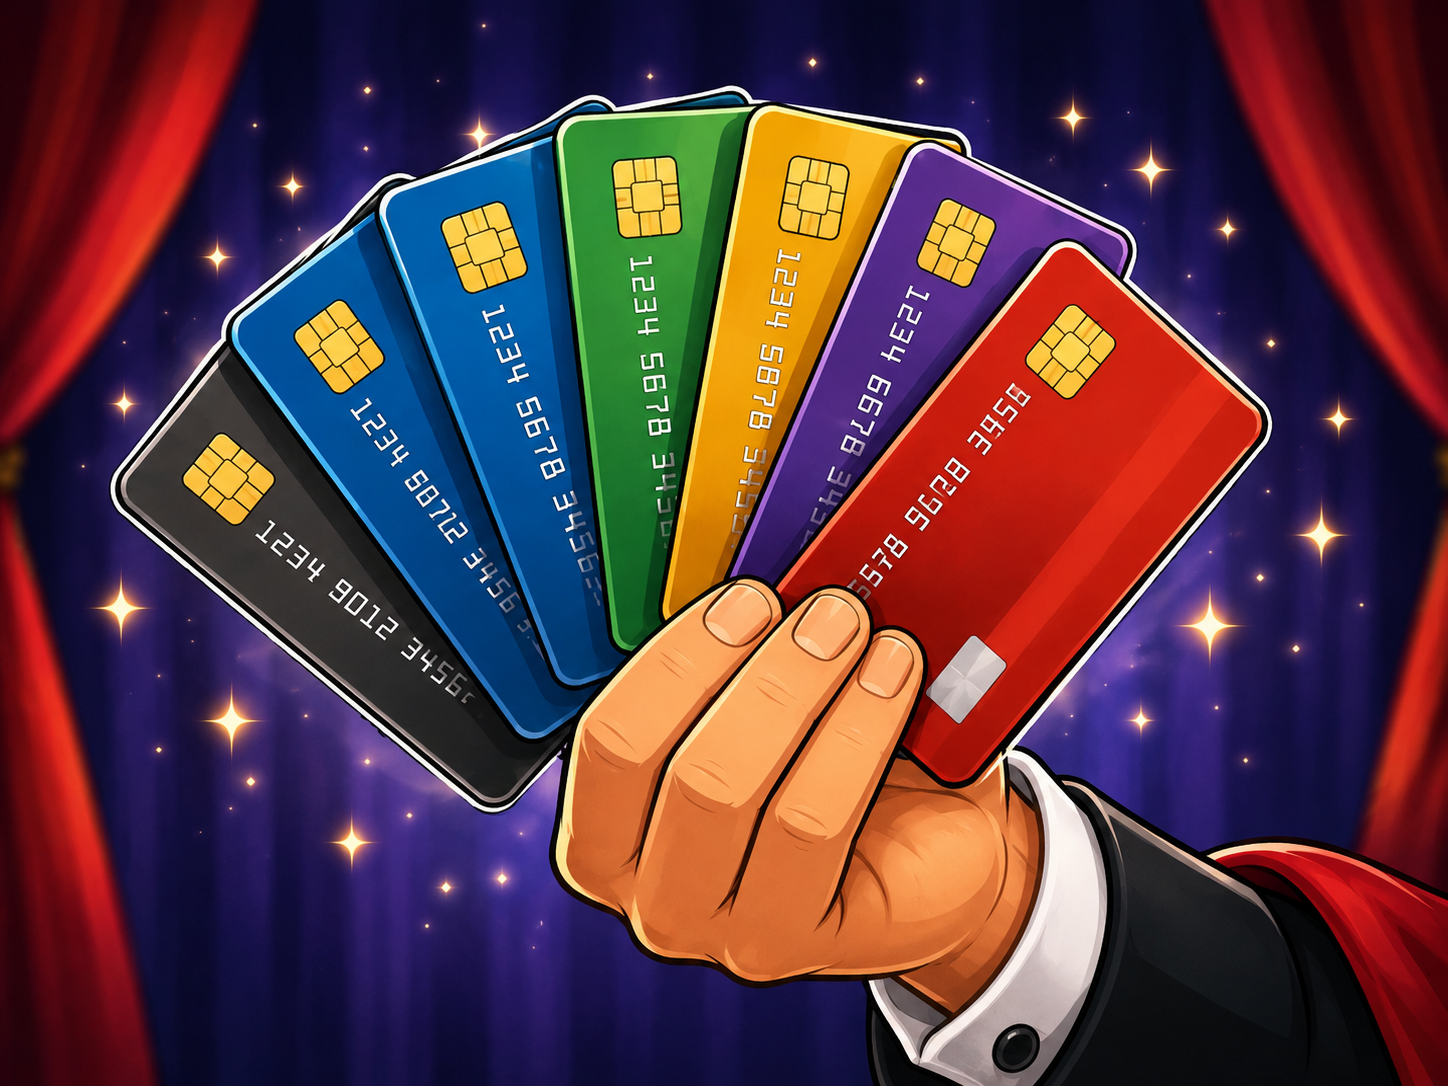
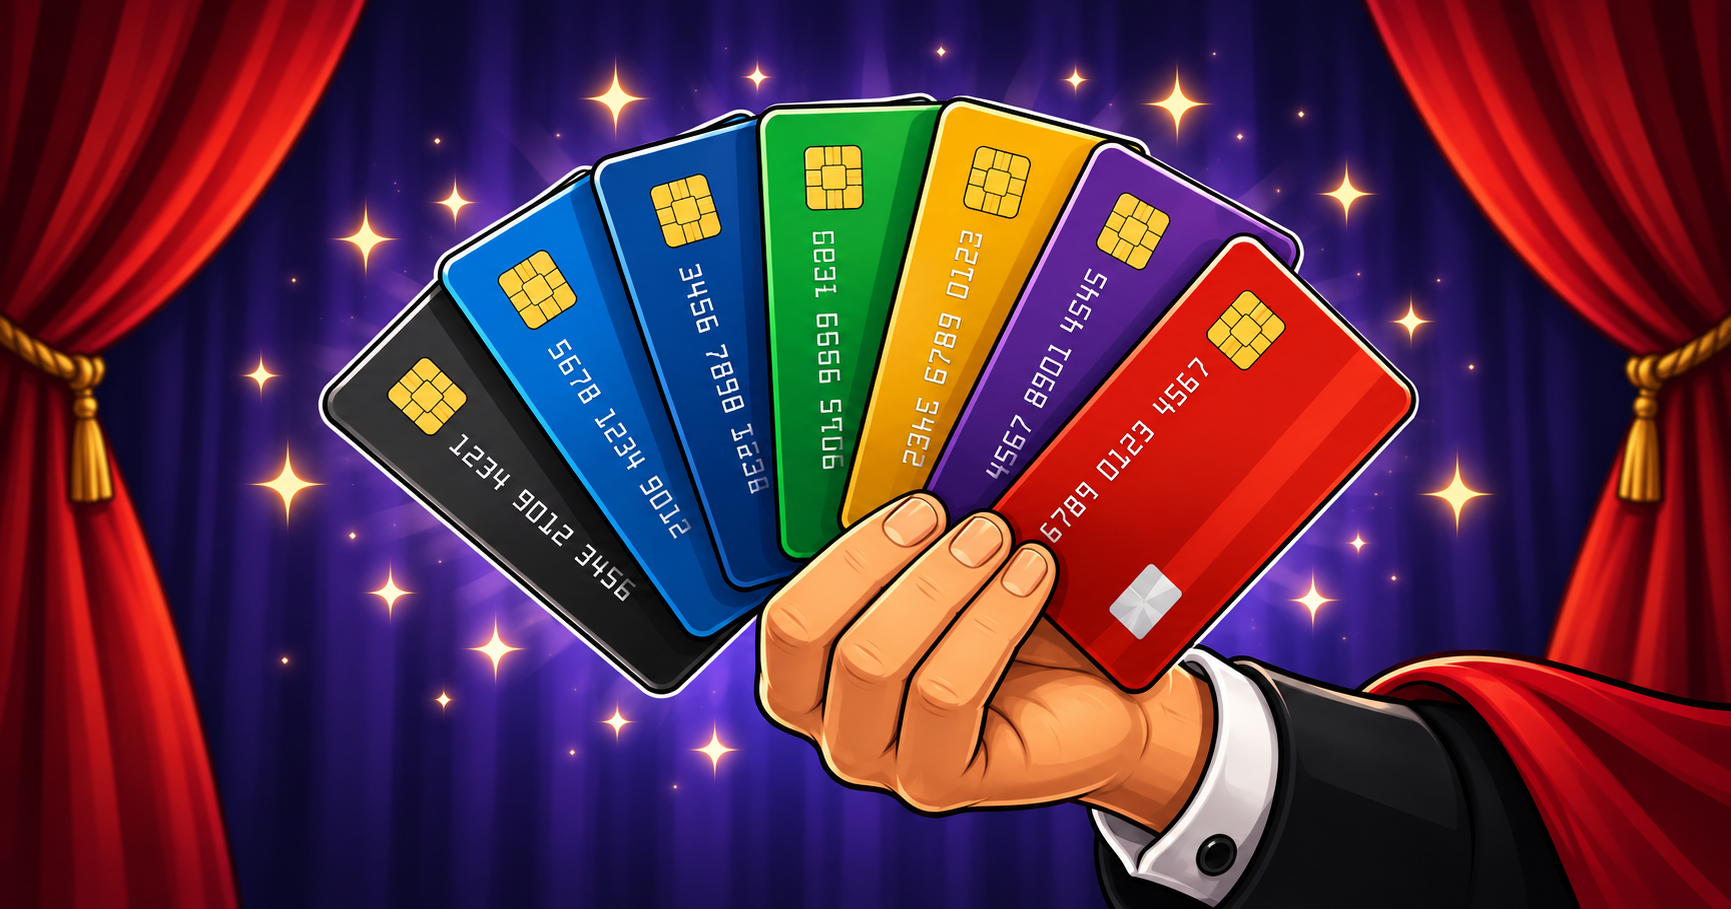
Regenerate pick-a-card-any-card.png in 1200x630 and use as social preview

diff --git a/src/content/blog/2026-05-12_personal-finance/index.md b/src/content/blog/2026-05-12_personal-finance/index.md
@@ -3,6 +3,8 @@ title: "The new grad's guide to personal finance"
 description: "A system for spending, saving, and investing."
 date: "2026-05-12"
 tag: "other"
+image: ./pick-a-card-any-card.png
+imageAlt: A magician offering many credit cards, representing just how many options are out there.
 ---
 
 _I wrote this especially for my sisters who just graduated, but I kept it general enough for anyone in the US!_
